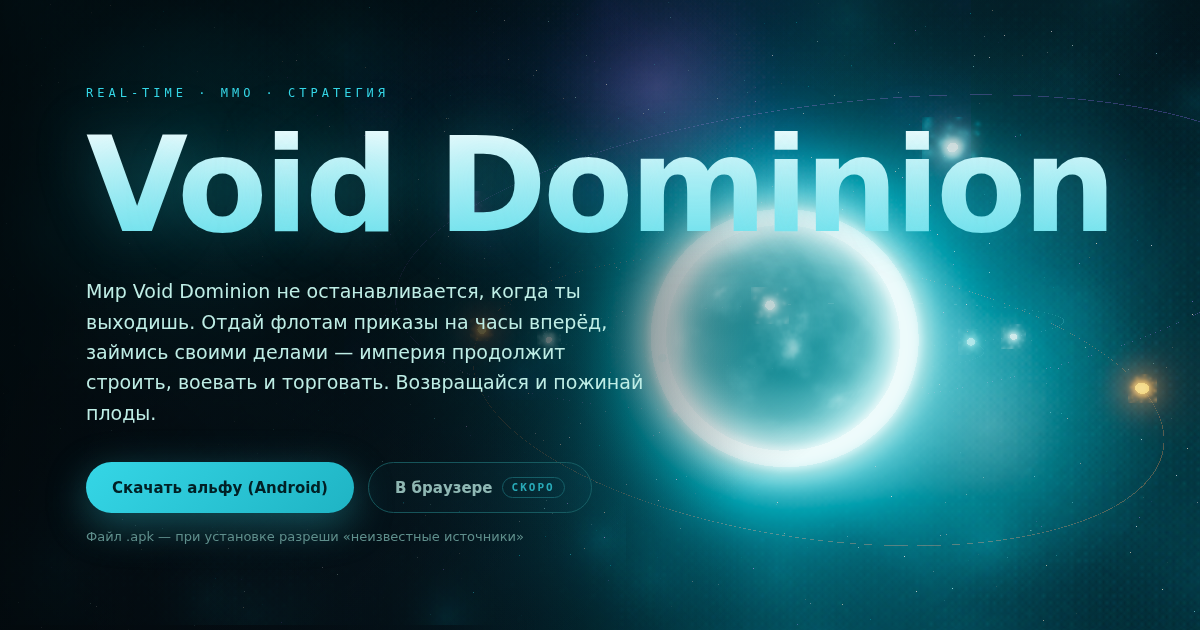
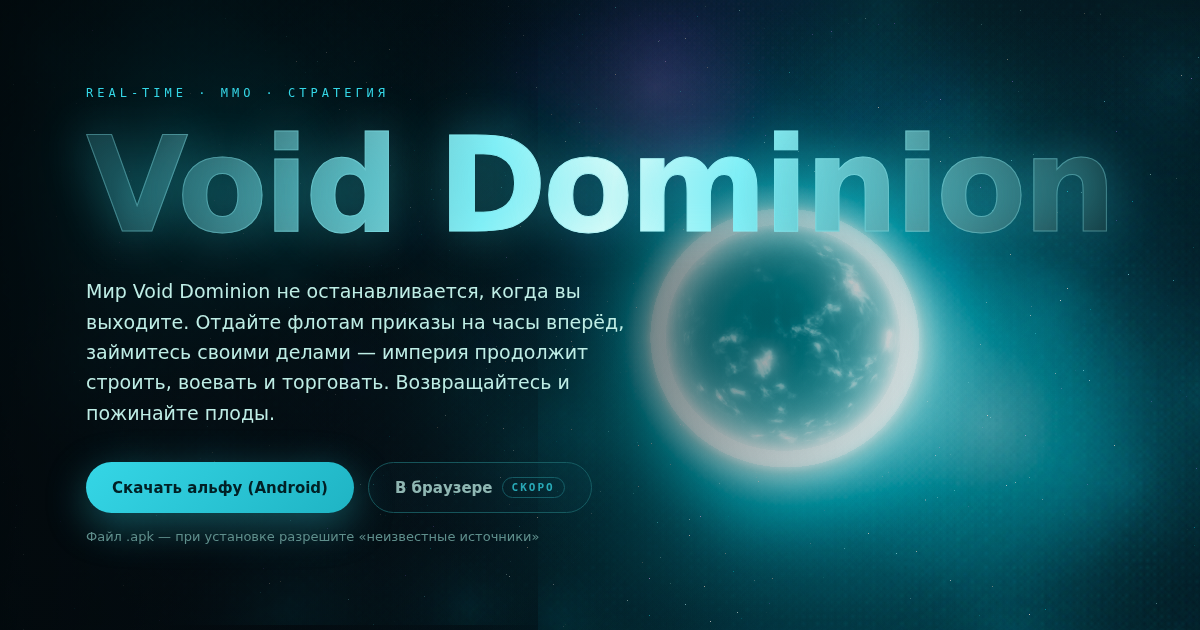
Fix gradient banding, soften scrim edge, static sun rotation
- Add a final dither pass (+-0.75/255 noise before 8-bit quantization)
  that removes banding and the checkerboard dithering pattern visible
  on smooth glow gradients
- Rebuild the hero scrim with eased multi-stop falloff — the abrupt
  gradient end produced a visible vertical boundary over the glow
- Detach sphere rotation from the pointer (remove parallax handler)
- Regenerate the OG banner from the current hero (ru locale)

Claude-Session: https://claude.ai/code/session_01CpQzfHtaYK7bRsfrskwTRA

diff --git a/src/three/HeroScene.tsx b/src/three/HeroScene.tsx
@@ -4,6 +4,32 @@ import { EffectComposer } from 'three/examples/jsm/postprocessing/EffectComposer
 import { RenderPass } from 'three/examples/jsm/postprocessing/RenderPass.js';
 import { UnrealBloomPass } from 'three/examples/jsm/postprocessing/UnrealBloomPass.js';
 import { OutputPass } from 'three/examples/jsm/postprocessing/OutputPass.js';
+import { ShaderPass } from 'three/examples/jsm/postprocessing/ShaderPass.js';
+
+/**
+ * Финальный дизеринг: ±0.75/255 шума перед квантованием в 8 бит убирает
+ * полосы и «шахматный» узор браузерного дизеринга на плавных градиентах.
+ */
+const DitherShader = {
+  uniforms: { tDiffuse: { value: null as THREE.Texture | null } },
+  vertexShader: `
+    varying vec2 vUv;
+    void main() {
+      vUv = uv;
+      gl_Position = projectionMatrix * modelViewMatrix * vec4(position, 1.0);
+    }
+  `,
+  fragmentShader: `
+    uniform sampler2D tDiffuse;
+    varying vec2 vUv;
+    float hash(vec2 p) { return fract(sin(dot(p, vec2(12.9898, 78.233))) * 43758.5453); }
+    void main() {
+      vec4 c = texture2D(tDiffuse, vUv);
+      float n = hash(gl_FragCoord.xy) - 0.5;
+      gl_FragColor = vec4(c.rgb + n * (1.5 / 255.0), c.a);
+    }
+  `,
+};
 
 /**
  * Holographic hero scene: a gently pulsing procedural sphere (GLSL) with
@@ -295,6 +321,8 @@ export function HeroScene() {
     composer.addPass(bloom);
     const output = new OutputPass();
     composer.addPass(output);
+    const dither = new ShaderPass(DitherShader);
+    composer.addPass(dither);
 
     // ===== SIZE =====
     let rafId = 0;
@@ -313,21 +341,11 @@ export function HeroScene() {
     const ro = new ResizeObserver(resize);
     ro.observe(wrap);
 
-    // ===== POINTER PARALLAX =====
-    let mouseX = 0;
-    let mouseY = 0;
-    const onPointer = (e: PointerEvent) => {
-      mouseX = (e.clientX / window.innerWidth) * 2 - 1;
-      mouseY = (e.clientY / window.innerHeight) * 2 - 1;
-    };
-    window.addEventListener('pointermove', onPointer, { passive: true });
-
     // ===== LOOP =====
     const clock = new THREE.Clock();
     function frame() {
       const t = clock.getElapsedTime();
-      planetGroup.rotation.y = t * 0.05 + mouseX * 0.12;
-      planetGroup.rotation.x = mouseY * 0.06;
+      planetGroup.rotation.y = t * 0.05;
       planetUniforms.uTime.value = t;
       starMat.uniforms.uTime.value = t;
       stars.rotation.y = t * 0.005;
@@ -377,13 +395,13 @@ export function HeroScene() {
     return () => {
       stop();
       document.removeEventListener('visibilitychange', onVisibility);
-      window.removeEventListener('pointermove', onPointer);
       io.disconnect();
       ro.disconnect();
       // composer.dispose() не трогает добавленные пассы — bloom держит
       // ~11 render target'ов и материалы, освобождаем явно.
       bloom.dispose();
       output.dispose();
+      dither.dispose();
       composer.dispose();
       renderer.dispose();
       scene.traverse((obj) => {

diff --git a/src/App.css b/src/App.css
@@ -120,10 +120,28 @@
   content: '';
   position: absolute;
   inset: 0;
+  /* Затухание с плавной кривой (много промежуточных ступеней): резкий конец
+     градиента даёт заметную вертикальную границу на ярком свечении. */
   background:
-    linear-gradient(90deg, rgba(2, 9, 12, 0.9) 0%, rgba(2, 9, 12, 0.55) 34%, transparent 62%),
-    radial-gradient(70% 60% at 24% 50%, rgba(2, 9, 12, 0.6), transparent 72%),
-    linear-gradient(180deg, rgba(2, 9, 12, 0.35), transparent 30%);
+    linear-gradient(
+      90deg,
+      rgba(2, 9, 12, 0.9) 0%,
+      rgba(2, 9, 12, 0.66) 24%,
+      rgba(2, 9, 12, 0.44) 40%,
+      rgba(2, 9, 12, 0.26) 52%,
+      rgba(2, 9, 12, 0.14) 62%,
+      rgba(2, 9, 12, 0.07) 71%,
+      rgba(2, 9, 12, 0.03) 79%,
+      rgba(2, 9, 12, 0) 90%
+    ),
+    radial-gradient(
+      78% 68% at 24% 50%,
+      rgba(2, 9, 12, 0.55),
+      rgba(2, 9, 12, 0.22) 52%,
+      rgba(2, 9, 12, 0.07) 70%,
+      rgba(2, 9, 12, 0) 88%
+    ),
+    linear-gradient(180deg, rgba(2, 9, 12, 0.35), rgba(2, 9, 12, 0.12) 18%, rgba(2, 9, 12, 0) 36%);
   pointer-events: none;
 }
 /* На узких экранах свечение планеты оказывается под текстом — затемняем равномерно. */
@@ -131,7 +149,13 @@
   .hero-canvas::after {
     background:
       linear-gradient(180deg, rgba(2, 9, 12, 0.6) 0%, rgba(2, 9, 12, 0.42) 45%, rgba(2, 9, 12, 0.6) 100%),
-      radial-gradient(120% 70% at 30% 45%, rgba(2, 9, 12, 0.5), transparent 80%);
+      radial-gradient(
+        120% 70% at 30% 45%,
+        rgba(2, 9, 12, 0.5),
+        rgba(2, 9, 12, 0.2) 55%,
+        rgba(2, 9, 12, 0.06) 74%,
+        rgba(2, 9, 12, 0) 94%
+      );
   }
 }
 .hero-inner {